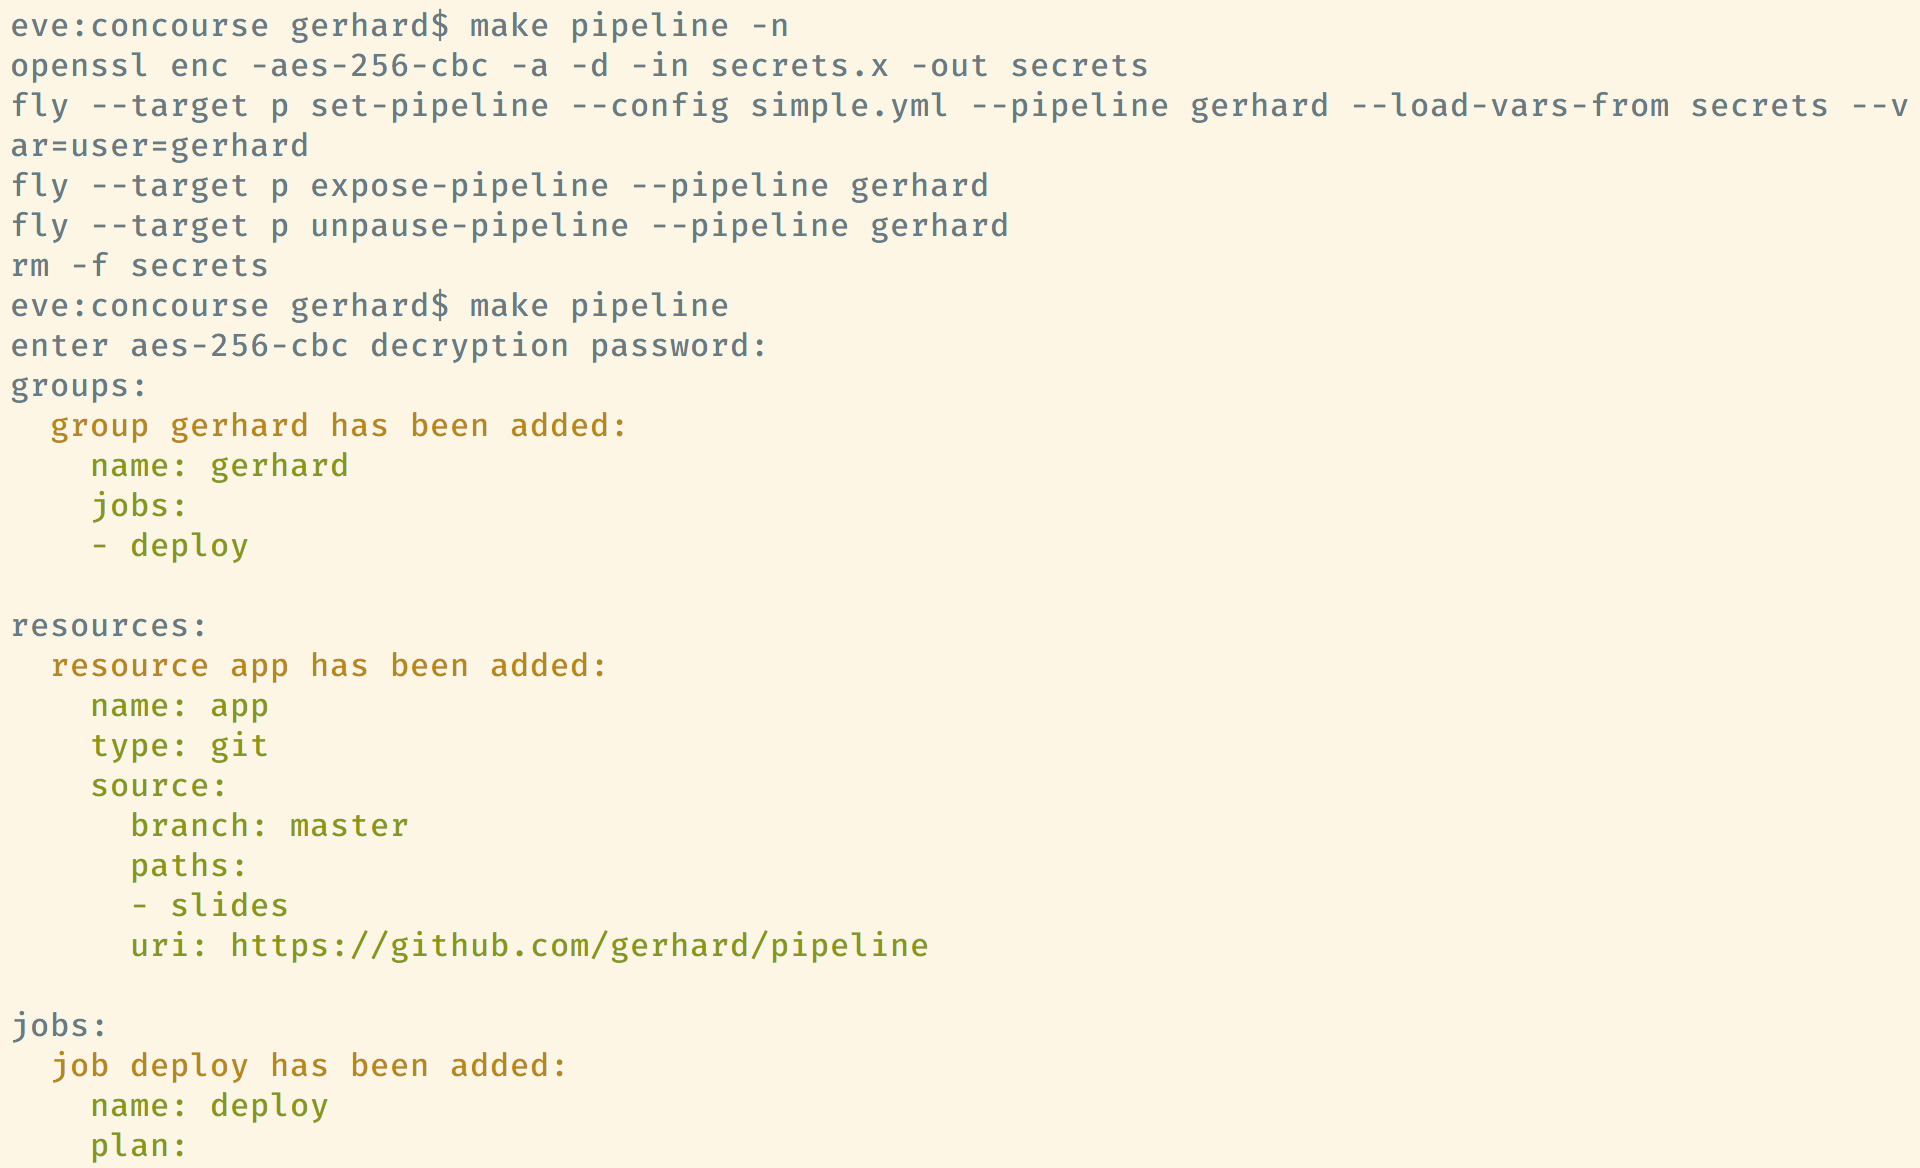
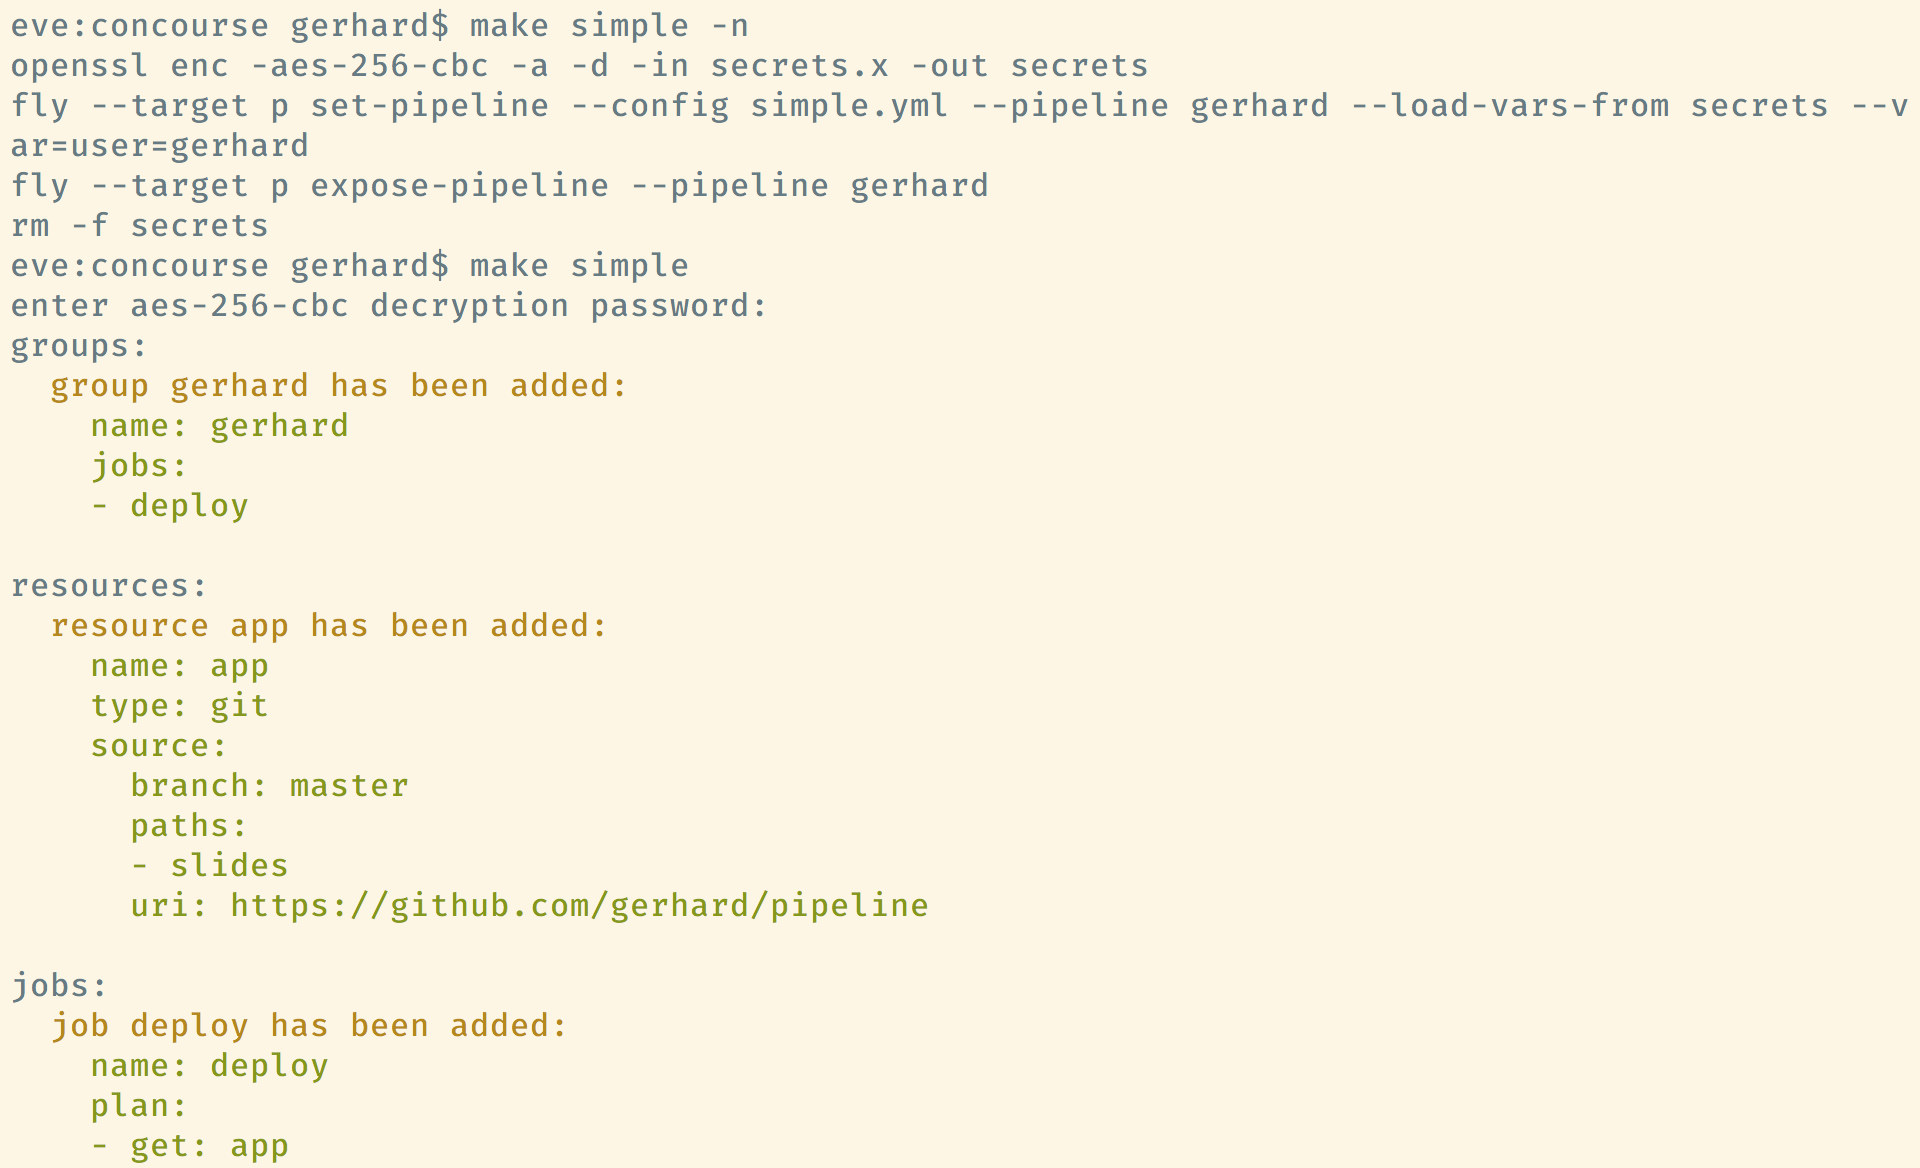
Finalize first part of the workshop

Changed region(s): [[0.0, 0.1849, 0.5312, 0.8322], [0.0, 0.8322, 0.2812, 1.0], [0.3125, 0.0, 0.4062, 0.0308]]

diff --git a/slides/index.html b/slides/index.html
@@ -10,7 +10,7 @@
     <meta name="apple-mobile-web-app-status-bar-style" content="black-translucent">
     <meta name="viewport" content="width=device-width, initial-scale=1.0, maximum-scale=1.0, user-scalable=no">
     <link rel="stylesheet" href="css/reveal.css">
-    <link rel="stylesheet" href="css/theme/solarized.css">
+    <link rel="stylesheet" href="css/theme/white.css">
     <!-- Theme used for syntax highlighting of code -->
     <link rel="stylesheet" href="lib/css/zenburn.css">
     <!-- Printing and PDF exports -->
@@ -34,10 +34,11 @@
                 Such teams cannot respond fast enough without an adequate automation story.
                 The humble pipeline is the heart of this automation.
         </section>
-        <section data-markdown data-background-image="images/gerhard.png" data-background-size="contain" data-background-color="#FFF">
+        <section data-markdown data-background-image="images/gerhard.png" data-background-size="contain">
         </section>
         <section data-markdown data-background-image="images/pipeline.png">
-          ## [What is a pipeline?](#/2)
+          ## [What is](#/2)
+          ## [a pipeline?](#/2)
         </section>
         <section data-markdown>
           ## [Imagine if everything was](#/3)
@@ -58,26 +59,24 @@
                 I want to show you what that means...
         </section>
         <section data-markdown>
-          ## Pipelines that
-          ## [will make you excited](#/5)
+          ## [1/2](#/5) A pipeline that
+          ## [you will make](#/5)
 
+          1. Pre-requisites
           1. Production web app pipeline
+        </section>
+        <section data-markdown>
+          ## [2/2](#/6) Pipelines that
+          ## [will make you excited](#/6)
+
           1. Infrastructure pipeline
           1. Small OSS pipeline
           1. Large OSS pipeline
 
           Note: One is guaranteed to get you excited...
         </section>
-        <section data-markdown>
-          ## A pipeline that
-          ## [you will make](#/6)
-
-          1. Production web app pipeline
-
-          Note: One is guaranteed to get you excited...
-        </section>
         <section data-markdown data-background-image="images/pipeline.png">
-          ## Focus on
+          ## [Focus on](#/7)
           ## [the pipeline concept](#/7)
           Note: How you achieve that is irrelevant.
                 For the purpose of this workshop, I'm choosing Concourse, but that is an implementation detail.
@@ -90,80 +89,104 @@
         <section data-markdown>
           ## [1/5](#/9) workshop repository
         </section>
-        <section data-markdown data-background="url(images/git-clone.png) center/80% no-repeat">
+        <section data-markdown data-background="url(images/git-clone.png) center / 75% no-repeat #fdf6e3">
         </section>
         <section data-markdown>
-          ## [2/5](#/10) fly cli
+          ## [2/5](#/11) fly cli
         </section>
-        <section data-markdown data-background="url(images/fly.png) center/80% no-repeat">
+        <section data-markdown data-background="url(images/fly.png) center / 75% no-repeat #fdf6e3">
         </section>
-        <section data-markdown data-background="url(images/ci.png) center/80% no-repeat">
+        <section data-markdown data-background="url(images/ci.png) center / 75% no-repeat">
           Note: The easiest way to ensure that you have the correct fly version is to download it from the CI that you will be targeting
         </section>
         <section data-markdown>
           ## [3/5](#/14) make
         </section>
-        <section data-markdown data-background="url(images/make.png) center/80% no-repeat">
+        <section data-markdown data-background="url(images/make.png) center / 75% no-repeat #fdf6e3">
         </section>
         <section data-markdown>
           ## [4/5](#/16) make login
         </section>
-        <section data-markdown data-background="url(images/make-login.png) center/80% no-repeat">
+        <section data-markdown data-background="url(images/make-login.png) center / 75% no-repeat #fdf6e3">
         </section>
         <section data-markdown>
           ## [5/5](#/18) openssl
         </section>
-        <section data-markdown data-background="url(images/openssl.png) center/80% no-repeat">
+        <section data-markdown data-background="url(images/openssl.png) center/75% no-repeat #fdf6e3">
         </section>
         <section data-markdown>
           ## Let's make a
           ## [simple web app pipeline](#/20)
           Note: `make simple`
         </section>
-        <section data-markdown data-background="url(images/make-simple.png) center/80% no-repeat">
+        <section data-markdown data-background="url(images/make-simple.png) center / 75% no-repeat #fdf6e3">
         </section>
-        <section data-markdown data-background="url(images/preview-simple.png) center/80% no-repeat">
-          Note: `make preview`
+        <section data-markdown data-background="url(images/unpause-simple.png) center / 75% no-repeat">
+          Note: `make preview` &amp; `make unpause`
                 This is a pipeline with: 1 resource called app &amp; 1 job called deploy
-                What is a resource? And what is a job?
         </section>
-        <section data-markdown data-background="url(images/resource.png) center bottom -15% / 30% no-repeat, url(images/resource-version.png) right 50px bottom -15% / 30% no-repeat">
-          ## App is a [resource](#/23)
+        <section data-markdown data-background="url(images/login.png) center / 75% no-repeat">
+        </section>
+        <section data-markdown data-background="url(images/unpaused-simple.png) center / 75% no-repeat">
+        </section>
+        <section data-markdown data-background="url(images/run-simple-deploy.png) center / 75% no-repeat">
+        </section>
+        <section data-markdown data-background="url(images/pass-simple-deploy.png) center / 75% no-repeat">
+        </section>
+        <section data-markdown data-background="url(images/pass-log-simple-deploy.png) center / 75% no-repeat">
+        </section>
+        <section data-markdown data-background="url(images/green-simple.png) center / 75% no-repeat">
+          Note: What is a resource? And what is a job?
+        </section>
+        <section data-markdown data-background="url(images/app-resource.png) center bottom -30% / 50% no-repeat">
+          ## App is a [resource](#/29)
 
-          * it's an input resource
-          * of type git - it's a git repository
-          * every git commit is a different version
-          * the version is an input to a job
-        </section>
-        <section data-markdown data-background="url(images/resource-version.png) center/80% no-repeat">
-          Note: A resource has many versions.
-                For your app resource which is of type git, every git commit is a different version.
-        </section>
-        <section data-markdown data-background="url(images/job.png) center bottom -15% / 30% no-repeat, url(images/job-task.png) right 50px bottom -15% / 30% no-repeat">
-          ## Deploy is a [job](#/25)
+          Note: * it's an input resource
+                * of type git - it's a git repository
+                * every git commit is a different version
+                * the version is an input and output to a build
 
-          * every job has builds
-          * builds can be in different states
-          * every build has input versions
-          * a job has tasks
+                What is a build?
         </section>
-        <section data-markdown data-background="url(images/job-task.png) center/80% no-repeat">
+        <section data-markdown data-background="url(images/deploy-job.png) center bottom -30% / 50% no-repeat">
+          ## Deploy is a [job](#/30)
+
+          Note: * every job has builds
+                * builds can be in different states
+                * every build has input versions
+                * a job has tasks
+        </section>
+        <section data-markdown data-background="url(images/job-task.png) center / 75% no-repeat">
           Note: Your deploy job has 1 input, app with a version.
                 It also has 1 task called make-public for which you can see the output when the job builds.
         </section>
         <section data-markdown>
           ## Let's make a
-          ## [production web app pipeline](#/27)
+          ## [production web app pipeline](#/32)
           Note: `make production`
         </section>
-        <section data-markdown data-background="url(images/make-production.png) center/80% no-repeat">
+        <section data-markdown data-background="url(images/make-production.png) center / 75% no-repeat #fdf6e3">
         </section>
-        <section data-markdown data-background="url(images/preview-production.png) center/80% no-repeat">
+        <section data-markdown data-background="url(images/trigger-production.png) center / 75% no-repeat">
           Note: `make preview`
         </section>
-        <section data-markdown data-background="url(images/unpause-production.png) center/80% no-repeat">
-          Note: `make unpause`
+        <section data-markdown data-background="url(images/building-production.png) center / 75% no-repeat">
         </section>
+        <section data-markdown data-background="url(images/pass-production.png) center / 75% no-repeat">
+        </section>
+        <section data-markdown data-background="url(images/green-production.png) center bottom -40% / 50% no-repeat">
+          ##  ☕ [BREAK](#/33) 🏓
+        </section>
+
+        <section data-markdown>
+          ## Pipelines that
+          ## [will make you excited](#/34)
+
+          1. Infrastructure pipeline
+          1. Small OSS pipeline
+          1. Large OSS pipeline
+        </section>
+
         <section data-markdown data-background-image="images/infrastructure-pipeline-W.png" data-background-position="top 800px center" data-background-size="60%">
           ## Infrastructure pipeline
         </section>
